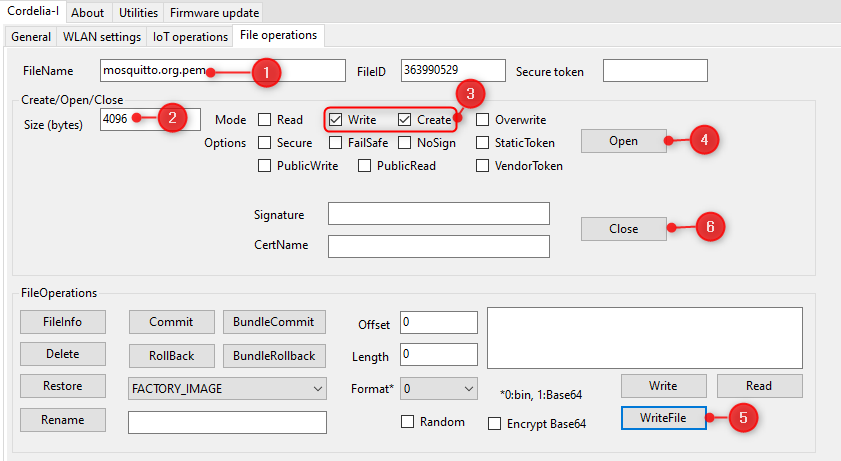
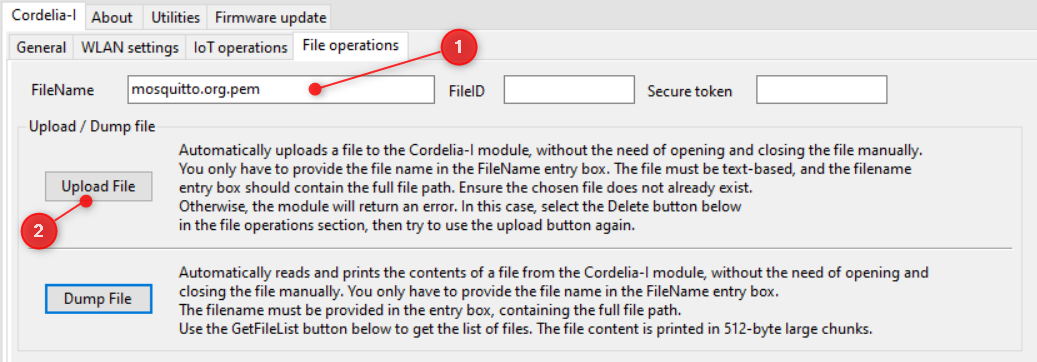
Updated steps to upload a file.

Changed region(s): [[0.0, 0.0, 0.9893, 1.0], [0.7111, 0.2127, 0.742, 0.2431]]

diff --git a/exercise4.md b/exercise4.md
@@ -5,12 +5,6 @@
 In the previous exercise, we created an MQTT connection over an encrypted TLS link. However, this was not a mutually authenticated connection.
 The aim of this exercise is to create a fully secure MQTT connection using mTLS.
 
-> [!IMPORTANT]  
-> Perform a "Factory Reset". Please note that the reset will typically take 60 seconds. Please wait for at least this time, the PC tool will not show any reaction during that duration, please be patient.
->
-> TODO: screenshot of factory reset button.
-
-
 ## TLS
 Transport Layer Security (TLS) is a cryptographic protocol designed to provide communications security over a computer network, such as the Internet. The TLS protocol aims primarily to provide security, including privacy (confidentiality), integrity, and authenticity through the use of cryptography, such as the use of certificates, between two or more communicating entities.
 
@@ -80,6 +74,8 @@ You will need the following assets to create this connection.
 2. Device certificate
 3. RootCA certificate for AWS
 
+## **Factory reset Cordelia-I module**
+
 > [!IMPORTANT]  
 > Perform a "Factory Reset". Please note that the reset will typically take 60 seconds. Please wait for at least this time. The PC tool will not show any reaction during that duration, please be patient. Do not power-off or hard reset the EV-board during this time.
 >
@@ -89,17 +85,10 @@ You will need the following assets to create this connection.
 
 In this step, we will upload the device certificate  and keys (download from AWS IoT core) to the Cordelia-I's file system. These files will be used by the on-board MQTT client during the connection set up.
 
-> [!IMPORTANT]  
-> For adding, modifying or creating files on the Cordelia-I file system the WLAN connection shall be disconnected. This is achieved by pressing "Disconnect" on the "WLAN Settings" on the PC tool as shown by point 5.
-
-
 In order to upload the file, in the "File operations" tab on the WE UART terminal, 
-1. Type in the file name in the "FileName" text box.
-2. Type in "4096" in the "Size(bytes)" field.
-3. Check the "Write" and "Create" check boxes in the Mode.
-4. Click on "Open". Cordelia will generate a file ID which will be copied automatically to the FileID text box.
-5. Now click-on the "WriteFile" button. This will open a file browser. Browse to the location where the downloaded server file was saved. Select the file and click on "Open". The file will be written to the module's file system.
-6. Finally, click on close button to close the file.
+1. Type in correct filename in the "FileName" text box.
+2. Click on "Upload File" button. This will open the file explorer. Navigate to the location where you stored the certificate. Select the file and click on "OK". 
+ 
  
 ![Write file](resources/writeFile.png)
 
@@ -123,10 +112,46 @@ Use this process to write the following files,
 2. Device certificate with file name "cert.pem"
 3. RootCA certificate downloaded form [here](https://ssl-tools.net/certificates/ad7e1c28b064ef8f6003402014c3d0e3370eb58a.pem) with file name "rootca.pem"
 
+
+## **Connect Cordelia-I module to your WiFi network**
+
+Open the WLAN settings tab in the WE UART terminal.
+In order to connect the Cordelia-I module to your WiFi network,
+1. Type in the SSID of your WiFi network.
+2. Choose the correct security type.
+3. Type in your password.
+4. Finally click on "Connect".
+
+![WiFi Connect](resources/wifi_connect.png)
+
+On successful connection, you will receive a "connect" event as well as an "ipv4_acquired" event.
+
+```
+-> AT+wlanconnect=your_ssid,,WPA_WPA2,your_password,,,
+<- OK
+<- +eventwlan:connect,your_ssid,0x34:0x31:0xc4:0x4a:0xeb:0x5f
+<- +eventnetapp:ipv4_acquired,192.168.178.100,192.168.178.1,192.168.178.1
+```
+Congratulations! Your module is now connected to the internet via your WiFi network. You can confirm this by checking the fact that the "mode" and "status" LEDs are now switched on.
+
+![WiFi Connected](resources/connected_led.png)
+
 ## Configure the Cordelia-I module
 
 In this step, we configure the Cordelia-I module to connect to the public AWS IoT Core broker and send/receive data.
 The on-board MQTT client on the Cordelia-I module needs to be configured. These parameters are stored in the "user settings" of the module. In the WE UART terminal, use the "Custom command/input" section in the "General" tab to configure the user settings.
+
+The following parameters necessary for this connection:
+
+- MQTT Broker address.
+- MQTT port.
+- Flags to indicate the type of server used for this connection.
+- Set the client ID (Replace "your_client_id" with a meaningful name).
+- Full path to the root CA certificate stored on the file system of the Cordelia-I module.
+- Full path to the device certificate stored on the file system of the Cordelia-I module.
+- Full path to the device private key stored on the file system of the Cordelia-I module.
+- Set topic strings to subscribe and publish.
+
 
 ```
 -> AT+set=MQTT,iotHubEndpoint,"a2m4kdan3jizyu-ats.iot.eu-central-1.amazonaws.com"
@@ -149,7 +174,7 @@ The on-board MQTT client on the Cordelia-I module needs to be configured. These 
 <- OK
 ```
 
-You could configure additional topics to publish,
+[Optional]You could configure additional topics to publish,
 ```
 -> AT+set=PUBTOPIC1,name,"cordelia/banana"
 <- OK

diff --git a/exercise3.md b/exercise3.md
@@ -4,17 +4,6 @@
 
 So far we have used MQTT over TCP to exchange messages. However, TCP does not provide any security for data exchange. The aim of this exercise is to create the first MQTT connection over TLS.
 
-
-
-> [!IMPORTANT]  
-> Perform a "Factory Reset". Please note that the reset will typically take 60 seconds. Please wait for at least this time. The PC tool will not show any reaction during that duration, please be patient. Do not power-off or hard reset the EV-board during this time.
->
-> ![Factory reset](resources/factory_reset.png)
-
-
-
-
-
 ## TLS
 Transport Layer Security (TLS) is a cryptographic protocol designed to provide communications security over a computer network, such as the Internet. The TLS protocol aims primarily to provide security, including privacy (confidentiality), integrity, and authenticity through the use of cryptography, such as the use of certificates, between two or more communicating entities.
 
@@ -64,7 +53,12 @@ Since we do not perform client authentication, client certificate and key will n
 
 You will however need a server certificate to perform server authentication. Please download the same from [here](https://test.mosquitto.org/ssl/mosquitto.org.crt).
 
+## **Factory reset Cordelia-I module**
 
+> [!IMPORTANT]  
+> Perform a "Factory Reset". Please note that the reset will typically take 60 seconds. Please wait for at least this time. The PC tool will not show any reaction during that duration, please be patient. Do not power-off or hard reset the EV-board during this time.
+>
+> ![Factory reset](resources/factory_reset.png)
 
 ## Upload server certificate to Cordelia
 
@@ -72,11 +66,7 @@ In this step, we will upload the mosquitto server certificate (download from [he
 
 In order to upload the file, in the "File operations" tab on the WE UART terminal, 
 1. Type in "mosquitto.org.pem" in the "FileName" text box.
-2. Type in "4096" in the "Size(bytes)" field.
-3. Check the "Write" and "Create" check boxes in the Mode.
-4. Click on "Open". Cordelia will generate a file ID which will be copied automatically to the FileID text box.
-5. Now click-on the "WriteFile" button. This will open a file browser. Browse to the location where the downloaded server file was saved. Select the file and click on "Open". The file will be written to the module's file system.
-6. Finally, click on close button to close the file.
+2. Click on "Upload File" button. This will open the file explorer. Navigate to the location where you stored the certificate. Select the file and click on "OK". 
  
 ![Write file](resources/writeFile.png)
 
@@ -95,11 +85,42 @@ In order to upload the file, in the "File operations" tab on the WE UART termina
 
 ```
 
+## **Connect Cordelia-I module to your WiFi network**
+
+Open the WLAN settings tab in the WE UART terminal.
+In order to connect the Cordelia-I module to your WiFi network,
+1. Type in the SSID of your WiFi network.
+2. Choose the correct security type.
+3. Type in your password.
+4. Finally click on "Connect".
+
+![WiFi Connect](resources/wifi_connect.png)
+
+On successful connection, you will receive a "connect" event as well as an "ipv4_acquired" event.
+
+```
+-> AT+wlanconnect=your_ssid,,WPA_WPA2,your_password,,,
+<- OK
+<- +eventwlan:connect,your_ssid,0x34:0x31:0xc4:0x4a:0xeb:0x5f
+<- +eventnetapp:ipv4_acquired,192.168.178.100,192.168.178.1,192.168.178.1
+```
+Congratulations! Your module is now connected to the internet via your WiFi network. You can confirm this by checking the fact that the "mode" and "status" LEDs are now switched on.
+
+![WiFi Connected](resources/connected_led.png)
 
 ## Configure the Cordelia-I module
 
 In this step, we configure the Cordelia-I module to connect to the public Mosquitto Broker and send/receive data.
 The on-board MQTT client on the Cordelia-I module needs to be configured. These parameters are stored in the "user settings" of the module. In the WE UART terminal, use the "Custom command/input" section in the "General" tab to configure the user settings.
+
+The following parameters necessary for this connection:
+
+- MQTT Broker address.
+- MQTT port.
+- Flags to indicate the type of server used for this connection.
+- Set the client ID (Replace "your_client_id" with a meaningful name).
+- Full path to the root CA certificate stored on the file system of the Cordelia-I module.
+- Set topic strings to subscribe and publish.
 
 ```
 -> AT+set=MQTT,iotHubEndpoint,"test.mosquitto.org"
@@ -118,7 +139,7 @@ The on-board MQTT client on the Cordelia-I module needs to be configured. These 
 <- OK
 ```
 
-You could configure additional topics to publish,
+[Optional] You could configure additional topics to publish,
 ```
 -> AT+set=PUBTOPIC1,name,"cordelia/banana"
 <- OK

diff --git a/exercise2.md b/exercise2.md
@@ -1,14 +1,8 @@
 ![WE Logo](resources/WE_Logo_small_t.png)
 
 # **Exercise 2**: Hands-on with MQTT protocol (without security)
-
 > [!WARNING]  
 > **The MQTT server used here is public and data sent will be publicly accessible. Be aware of the data you share.**
-
-> [!IMPORTANT]  
-> Perform a "Factory Reset". Please note that the reset will typically take 60 seconds. Please wait for at least this time. The PC tool will not show any reaction during that duration, please be patient. Do not power-off or hard reset the EV-board during this time.
->
-> ![Factory reset](resources/factory_reset.png)
 
 The aim of this exercise is to get hands-on with the MQTT protocol by connecting Cordelia-I module to a public MQTT server without any encryption or authentication.
 
@@ -65,12 +59,49 @@ You can now test the connection by publishing the data to a topic that this clie
 
 Congratulations! You have now sent your first MQTT packet.
 
+
+## **Factory reset Cordelia-I module**
+
+> [!IMPORTANT]  
+> Perform a "Factory Reset". Please note that the reset will typically take 60 seconds. Please wait for at least this time. The PC tool will not show any reaction during that duration, please be patient. Do not power-off or hard reset the EV-board during this time.
+>
+> ![Factory reset](resources/factory_reset.png)
+
+## **Connect Cordelia-I module to your WiFi network**
+
+Open the WLAN settings tab in the WE UART terminal.
+In order to connect the Cordelia-I module to your WiFi network,
+1. Type in the SSID of your WiFi network.
+2. Choose the correct security type.
+3. Type in your password.
+4. Finally click on "Connect".
+
+![WiFi Connect](resources/wifi_connect.png)
+
+On successful connection, you will receive a "connect" event as well as an "ipv4_acquired" event.
+
+```
+-> AT+wlanconnect=your_ssid,,WPA_WPA2,your_password,,,
+<- OK
+<- +eventwlan:connect,your_ssid,0x34:0x31:0xc4:0x4a:0xeb:0x5f
+<- +eventnetapp:ipv4_acquired,192.168.178.100,192.168.178.1,192.168.178.1
+```
+Congratulations! Your module is now connected to the internet via your WiFi network. You can confirm this by checking the fact that the "mode" and "status" LEDs are now switched on.
+
+![WiFi Connected](resources/connected_led.png)
+
 ## Configure the Cordelia-I to connect to public Mosquitto broker
 
 In this step, we configure the Cordelia-I module to connect to the public Mosquitto Broker and send/receive data.
 The on-board MQTT client on the Cordelia-I module needs to be configured. These parameters are stored in the "user settings" of the module. In the WE UART terminal, use the "Custom command/input" section in the "General" tab to configure the user settings.
 
-:bulb: You could use the "Set up module with dummy parameters" button. This will configure all the user settings and all the parameters necessary for this connection.
+:bulb: You could use the "Set up module with dummy parameters" button. This will configure the following user settings parameters necessary for this connection:
+
+- MQTT Broker address.
+- MQTT port.
+- Flags to indicate the type of server used for this connection.
+- Set the client ID (Replace "your_client_id" with a meaningful name).
+- Set topic strings to subscribe and publish.
 
 ```
 -> AT+set=MQTT,iotHubEndpoint,"test.mosquitto.org"
@@ -87,7 +118,7 @@ The on-board MQTT client on the Cordelia-I module needs to be configured. These 
 <- OK
 ```
 
-You could configure additional topics to publish,
+[Optional] You could configure additional topics to publish,
 ```
 -> AT+set=PUBTOPIC1,name,"cordelia/banana"
 <- OK
@@ -98,11 +129,7 @@ You could configure additional topics to publish,
 ```
 ![Cordelia user settings](resources/cordelia_usersetting.png)
 
-
 ## Connect to the broker and exchange data
-
-At this stage make sure that you are connected to the WiFi. If not connected, follow the steps [here](exercise1.md\#connect-cordelia-i-module-to-your-wifi-network).
-
 Now that the module is configured, Go to the "IoT Operations" tab and click on "Connect" button. On successful connection, you will the module will generate a "CONNACK" event.
 
 

diff --git a/exercise5.md b/exercise5.md
@@ -4,6 +4,15 @@
 
 The aim of this exercise is to connect Cordelia-I module securely to the cloud using the [QuarkLink™](https://www.cryptoquantique.com/products/quarklink/) platform.
 
+
+> [!IMPORTANT]  
+> Perform a "Factory Reset". Please note that the reset will typically take 60 seconds. Please wait for at least this time. The PC tool will not show any reaction during that duration, please be patient. Do not power-off or hard reset the EV-board during this time.
+>
+> ![Factory reset](resources/factory_reset.png)
+
+> [!IMPORTANT]  
+>Disconnect the Module from the WE UART terminal!
+
 ## Secure device enrolment
 From the previous exercises, it is clear that in order to make the connection to the cloud secure, the device and cloud should perform mutual authentication followed by exchange of a session key which is then used to encrypt the communication channel. This is typically performed using the TLS protocol. 
 

diff --git a/exercise1.md b/exercise1.md
@@ -66,7 +66,7 @@ At this stage, the EV-board is connected with the WE UART terminal. In order to 
 
 ![Test Connection](resources/at_test.png)
 
-You should see the following logs in the command window.
+You should see the following logs in the command window. The "AT+TEST" command is used to check the connection to the module via UART.
 ```
 -> AT+TEST
 <- OK
